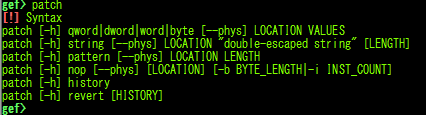
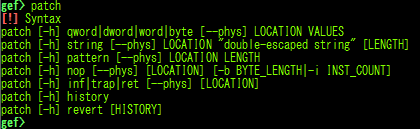
add patch inf, trap, ret

Changed region(s): [[0.0, 0.0, 0.9905, 1.0]]

diff --git a/gef.py b/gef.py
@@ -2206,6 +2206,12 @@ class Architecture:
     @abc.abstractproperty
     def nop_insn(self):                            pass
     @abc.abstractproperty
+    def infloop_insn(self):                        pass
+    @abc.abstractproperty
+    def trap_insn(self):                           pass
+    @abc.abstractproperty
+    def ret_insn(self):                            pass
+    @abc.abstractproperty
     def return_register(self):                     pass
     @abc.abstractproperty
     def flag_register(self):                       pass
@@ -2415,6 +2421,27 @@ class ARM(Architecture):
         else:
             return b"\x01\x10\xa0\xe1" # mov r1, r1
 
+    @property
+    def infloop_insn(self):
+        if self.is_thumb():
+            return b"\xfe\xe7"
+        else:
+            return b"\xfe\xff\xff\xea"
+
+    @property
+    def trap_insn(self):
+        if self.is_thumb():
+            return b"\x00\xbe"
+        else:
+            return b"\x70\x00\x20\xe1"
+
+    @property
+    def ret_insn(self):
+        if self.is_thumb():
+            return b"\xf7\x46"
+        else:
+            return b"\x0e\xf0\xa0\xe1"
+
     return_register = "$r0"
     flags_table = {
         31: "negative",
@@ -2610,6 +2637,11 @@ class AARCH64(ARM):
     syscall_register = "$x8"
     syscall_instructions = ["svc #0x0"]
 
+    nop_insn = b"\x1f\x20\x03\xd5"
+    infloop_insn = b"\x00\x00\x00\x14"
+    trap_insn = b"\x00\x00\x20\xd4"
+    ret_insn = b"\xc0\x03\x5f\xd6"
+
     def is_syscall(self, insn):
         return insn.mnemonic == "svc"
 
@@ -2707,6 +2739,9 @@ class X86(Architecture):
     mode = "32"
 
     nop_insn = b"\x90"
+    infloop_insn = b"\xeb\xfe"
+    trap_insn = b"\xcc"
+    ret_insn = b"\xc3"
     flag_register = "$eflags"
     special_registers = ["$cs", "$ss", "$ds", "$es", "$fs", "$gs", ]
     gpr_registers = ["$eax", "$ebx", "$ecx", "$edx", "$esp", "$ebp", "$esi", "$edi", "$eip", ]
@@ -12685,6 +12720,7 @@ class PatchCommand(GenericCommand):
     _syntax_ += "{:s} [-h] string [--phys] LOCATION \"double-escaped string\" [LENGTH]\n".format(_cmdline_)
     _syntax_ += "{:s} [-h] pattern [--phys] LOCATION LENGTH\n".format(_cmdline_)
     _syntax_ += "{:s} [-h] nop [--phys] [LOCATION] [-b BYTE_LENGTH|-i INST_COUNT]\n".format(_cmdline_)
+    _syntax_ += "{:s} [-h] inf|trap|ret [--phys] [LOCATION]\n".format(_cmdline_)
     _syntax_ += "{:s} [-h] history\n".format(_cmdline_)
     _syntax_ += "{:s} [-h] revert [HISTORY]".format(_cmdline_)
     _category_ = "Show/Modify Memory"
@@ -12937,7 +12973,7 @@ class PatchNopCommand(PatchCommand):
         addr_after_n = gef_instruction_n(addr, num_insts)
         return addr_after_n.address - addr
 
-    def nop_bytes(self, addr, num_bytes):
+    def patch_nop(self, addr, num_bytes):
         if num_bytes == 0:
             info("Not patching since num_bytes == 0")
             return
@@ -13021,7 +13057,190 @@ class PatchNopCommand(PatchCommand):
 
         if num_insts:
             num_bytes = self.get_insns_size(addr, num_insts)
-        self.nop_bytes(addr, num_bytes)
+        self.patch_nop(addr, num_bytes)
+
+        if phys_mode:
+            if orig_mode == "virt":
+                disable_phys()
+        return
+
+
+@register_command
+class PatchInfloopCommand(PatchCommand):
+    """Patch the instruction(s) pointed by parameters with Infinity loop. Note: this command is architecture aware."""
+    _cmdline_ = "patch inf"
+    _syntax_ = "{:s} [-h] [--phys] [LOCATION]".format(_cmdline_)
+    _example_ = "{:s} $pc".format(_cmdline_)
+    _category_ = "Show/Modify Memory"
+
+    def patch_infloop(self, addr):
+        if is_arm32() and current_arch.is_thumb() and addr & 1:
+            addr -= 1
+
+        num_bytes = len(current_arch.infloop_insn)
+        ok("Patching {:d} bytes from {:s}".format(num_bytes, format_address(addr)))
+        before_data = read_memory(addr, length=num_bytes)
+        write_memory(addr, current_arch.infloop_insn, num_bytes)
+        after_data = read_memory(addr, length=num_bytes)
+        self.history.insert(0, {"addr":addr, "before_data":before_data, "after_data":after_data, "physmode":get_current_mmu_mode()})
+        return
+
+    @only_if_gdb_running
+    def do_invoke(self, argv):
+        self.dont_repeat()
+
+        if "-h" in argv:
+            self.usage()
+            return
+
+        phys_mode = False
+        if "--phys" in argv:
+            if not is_supported_physmode():
+                err("Unsupported. Check qemu version (at least: 4.1.0-rc0~, recommend: 5.x~)")
+                return
+            phys_mode = True
+            orig_mode = get_current_mmu_mode()
+            argv.remove("--phys")
+
+        if phys_mode:
+            if orig_mode == "virt":
+                enable_phys()
+
+        if argv:
+            try:
+                addr = parse_address(' '.join(argv))
+            except:
+                self.usage()
+                if phys_mode:
+                    if orig_mode == "virt":
+                        disable_phys()
+                return
+        else:
+            addr = current_arch.pc
+
+        self.patch_infloop(addr)
+
+        if phys_mode:
+            if orig_mode == "virt":
+                disable_phys()
+        return
+
+
+@register_command
+class PatchTrapCommand(PatchCommand):
+    """Patch the instruction(s) pointed by parameters with BKPT. Note: this command is architecture aware."""
+    _cmdline_ = "patch trap"
+    _syntax_ = "{:s} [-h] [--phys] [LOCATION]".format(_cmdline_)
+    _example_ = "{:s} $pc".format(_cmdline_)
+    _category_ = "Show/Modify Memory"
+
+    def patch_trap(self, addr):
+        if is_arm32() and current_arch.is_thumb() and addr & 1:
+            addr -= 1
+
+        num_bytes = len(current_arch.trap_insn)
+        ok("Patching {:d} bytes from {:s}".format(num_bytes, format_address(addr)))
+        before_data = read_memory(addr, length=num_bytes)
+        write_memory(addr, current_arch.trap_insn, num_bytes)
+        after_data = read_memory(addr, length=num_bytes)
+        self.history.insert(0, {"addr":addr, "before_data":before_data, "after_data":after_data, "physmode":get_current_mmu_mode()})
+        return
+
+    @only_if_gdb_running
+    def do_invoke(self, argv):
+        self.dont_repeat()
+
+        if "-h" in argv:
+            self.usage()
+            return
+
+        phys_mode = False
+        if "--phys" in argv:
+            if not is_supported_physmode():
+                err("Unsupported. Check qemu version (at least: 4.1.0-rc0~, recommend: 5.x~)")
+                return
+            phys_mode = True
+            orig_mode = get_current_mmu_mode()
+            argv.remove("--phys")
+
+        if phys_mode:
+            if orig_mode == "virt":
+                enable_phys()
+
+        if argv:
+            try:
+                addr = parse_address(' '.join(argv))
+            except:
+                self.usage()
+                if phys_mode:
+                    if orig_mode == "virt":
+                        disable_phys()
+                return
+        else:
+            addr = current_arch.pc
+
+        self.patch_trap(addr)
+
+        if phys_mode:
+            if orig_mode == "virt":
+                disable_phys()
+        return
+
+
+@register_command
+class PatchRetCommand(PatchCommand):
+    """Patch the instruction(s) pointed by parameters with RET. Note: this command is architecture aware."""
+    _cmdline_ = "patch ret"
+    _syntax_ = "{:s} [-h] [--phys] [LOCATION]".format(_cmdline_)
+    _example_ = "{:s} $pc".format(_cmdline_)
+    _category_ = "Show/Modify Memory"
+
+    def patch_ret(self, addr):
+        if is_arm32() and current_arch.is_thumb() and addr & 1:
+            addr -= 1
+
+        num_bytes = len(current_arch.ret_insn)
+        ok("Patching {:d} bytes from {:s}".format(num_bytes, format_address(addr)))
+        before_data = read_memory(addr, length=num_bytes)
+        write_memory(addr, current_arch.ret_insn, num_bytes)
+        after_data = read_memory(addr, length=num_bytes)
+        self.history.insert(0, {"addr":addr, "before_data":before_data, "after_data":after_data, "physmode":get_current_mmu_mode()})
+        return
+
+    @only_if_gdb_running
+    def do_invoke(self, argv):
+        self.dont_repeat()
+
+        if "-h" in argv:
+            self.usage()
+            return
+
+        phys_mode = False
+        if "--phys" in argv:
+            if not is_supported_physmode():
+                err("Unsupported. Check qemu version (at least: 4.1.0-rc0~, recommend: 5.x~)")
+                return
+            phys_mode = True
+            orig_mode = get_current_mmu_mode()
+            argv.remove("--phys")
+
+        if phys_mode:
+            if orig_mode == "virt":
+                enable_phys()
+
+        if argv:
+            try:
+                addr = parse_address(' '.join(argv))
+            except:
+                self.usage()
+                if phys_mode:
+                    if orig_mode == "virt":
+                        disable_phys()
+                return
+        else:
+            addr = current_arch.pc
+
+        self.patch_ret(addr)
 
         if phys_mode:
             if orig_mode == "virt":

diff --git a/README.md b/README.md
@@ -218,8 +218,8 @@ All of these features are experimental. Tested on Ubuntu 18.04 / 20.04 / 22.04 /
         * ![](https://raw.githubusercontent.com/bata24/gef/dev/images/hexdump.png)
 * `patch`: is improved.
     * It supports physical memory if under qemu-system.
-    * Added 3 new modes: `patch pattern`, `patch history` and `patch revert`.
-    * Convert `nop` command to `patch nop` mode.
+    * Added some new modes: `patch pattern`, `patch history`, `patch revert`, `patch nop`, `patch inf`, `patch trap` and `patch ret`.
+        * `nop` command has been integrated into `patch` command.
         * ![](https://raw.githubusercontent.com/bata24/gef/dev/images/patch.png)
 * `search-pattern`: is improved.
     * It supports when under qemu-system (in short, it works without `/proc/self/maps`)
